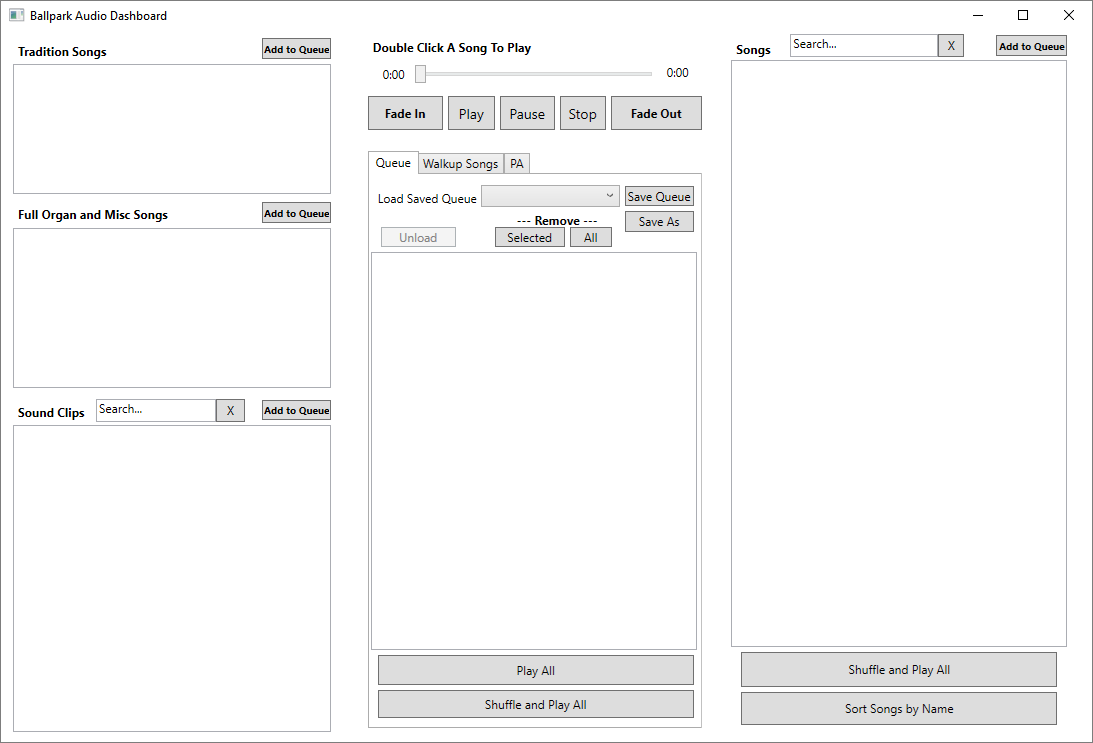
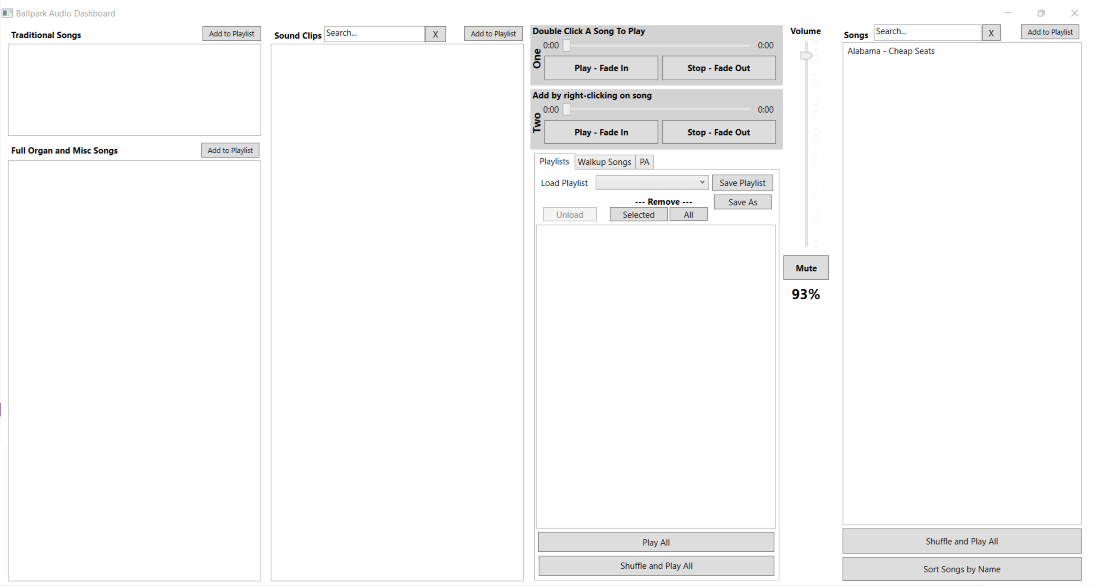
Update readme and screen capture

diff --git a/README.md b/README.md
@@ -3,7 +3,8 @@ An audio application that assists your public address announcer at your ballpark
 
 Features
  - Fade in and out of the currently playing audio
- - Build your own persist-able queue of Sound Clips or Songs that fits your tastes
+ - Use multiple media players to fade out of one and into another
+ - Build your own persist-able playlist of Sound Clips or Songs that fits your tastes
  - Separate lists for Sound Clips versus Songs
  - Shuffle and play all modes used for batting practice or pre-game time periods
  - Search ability for Songs and Sound Clips
